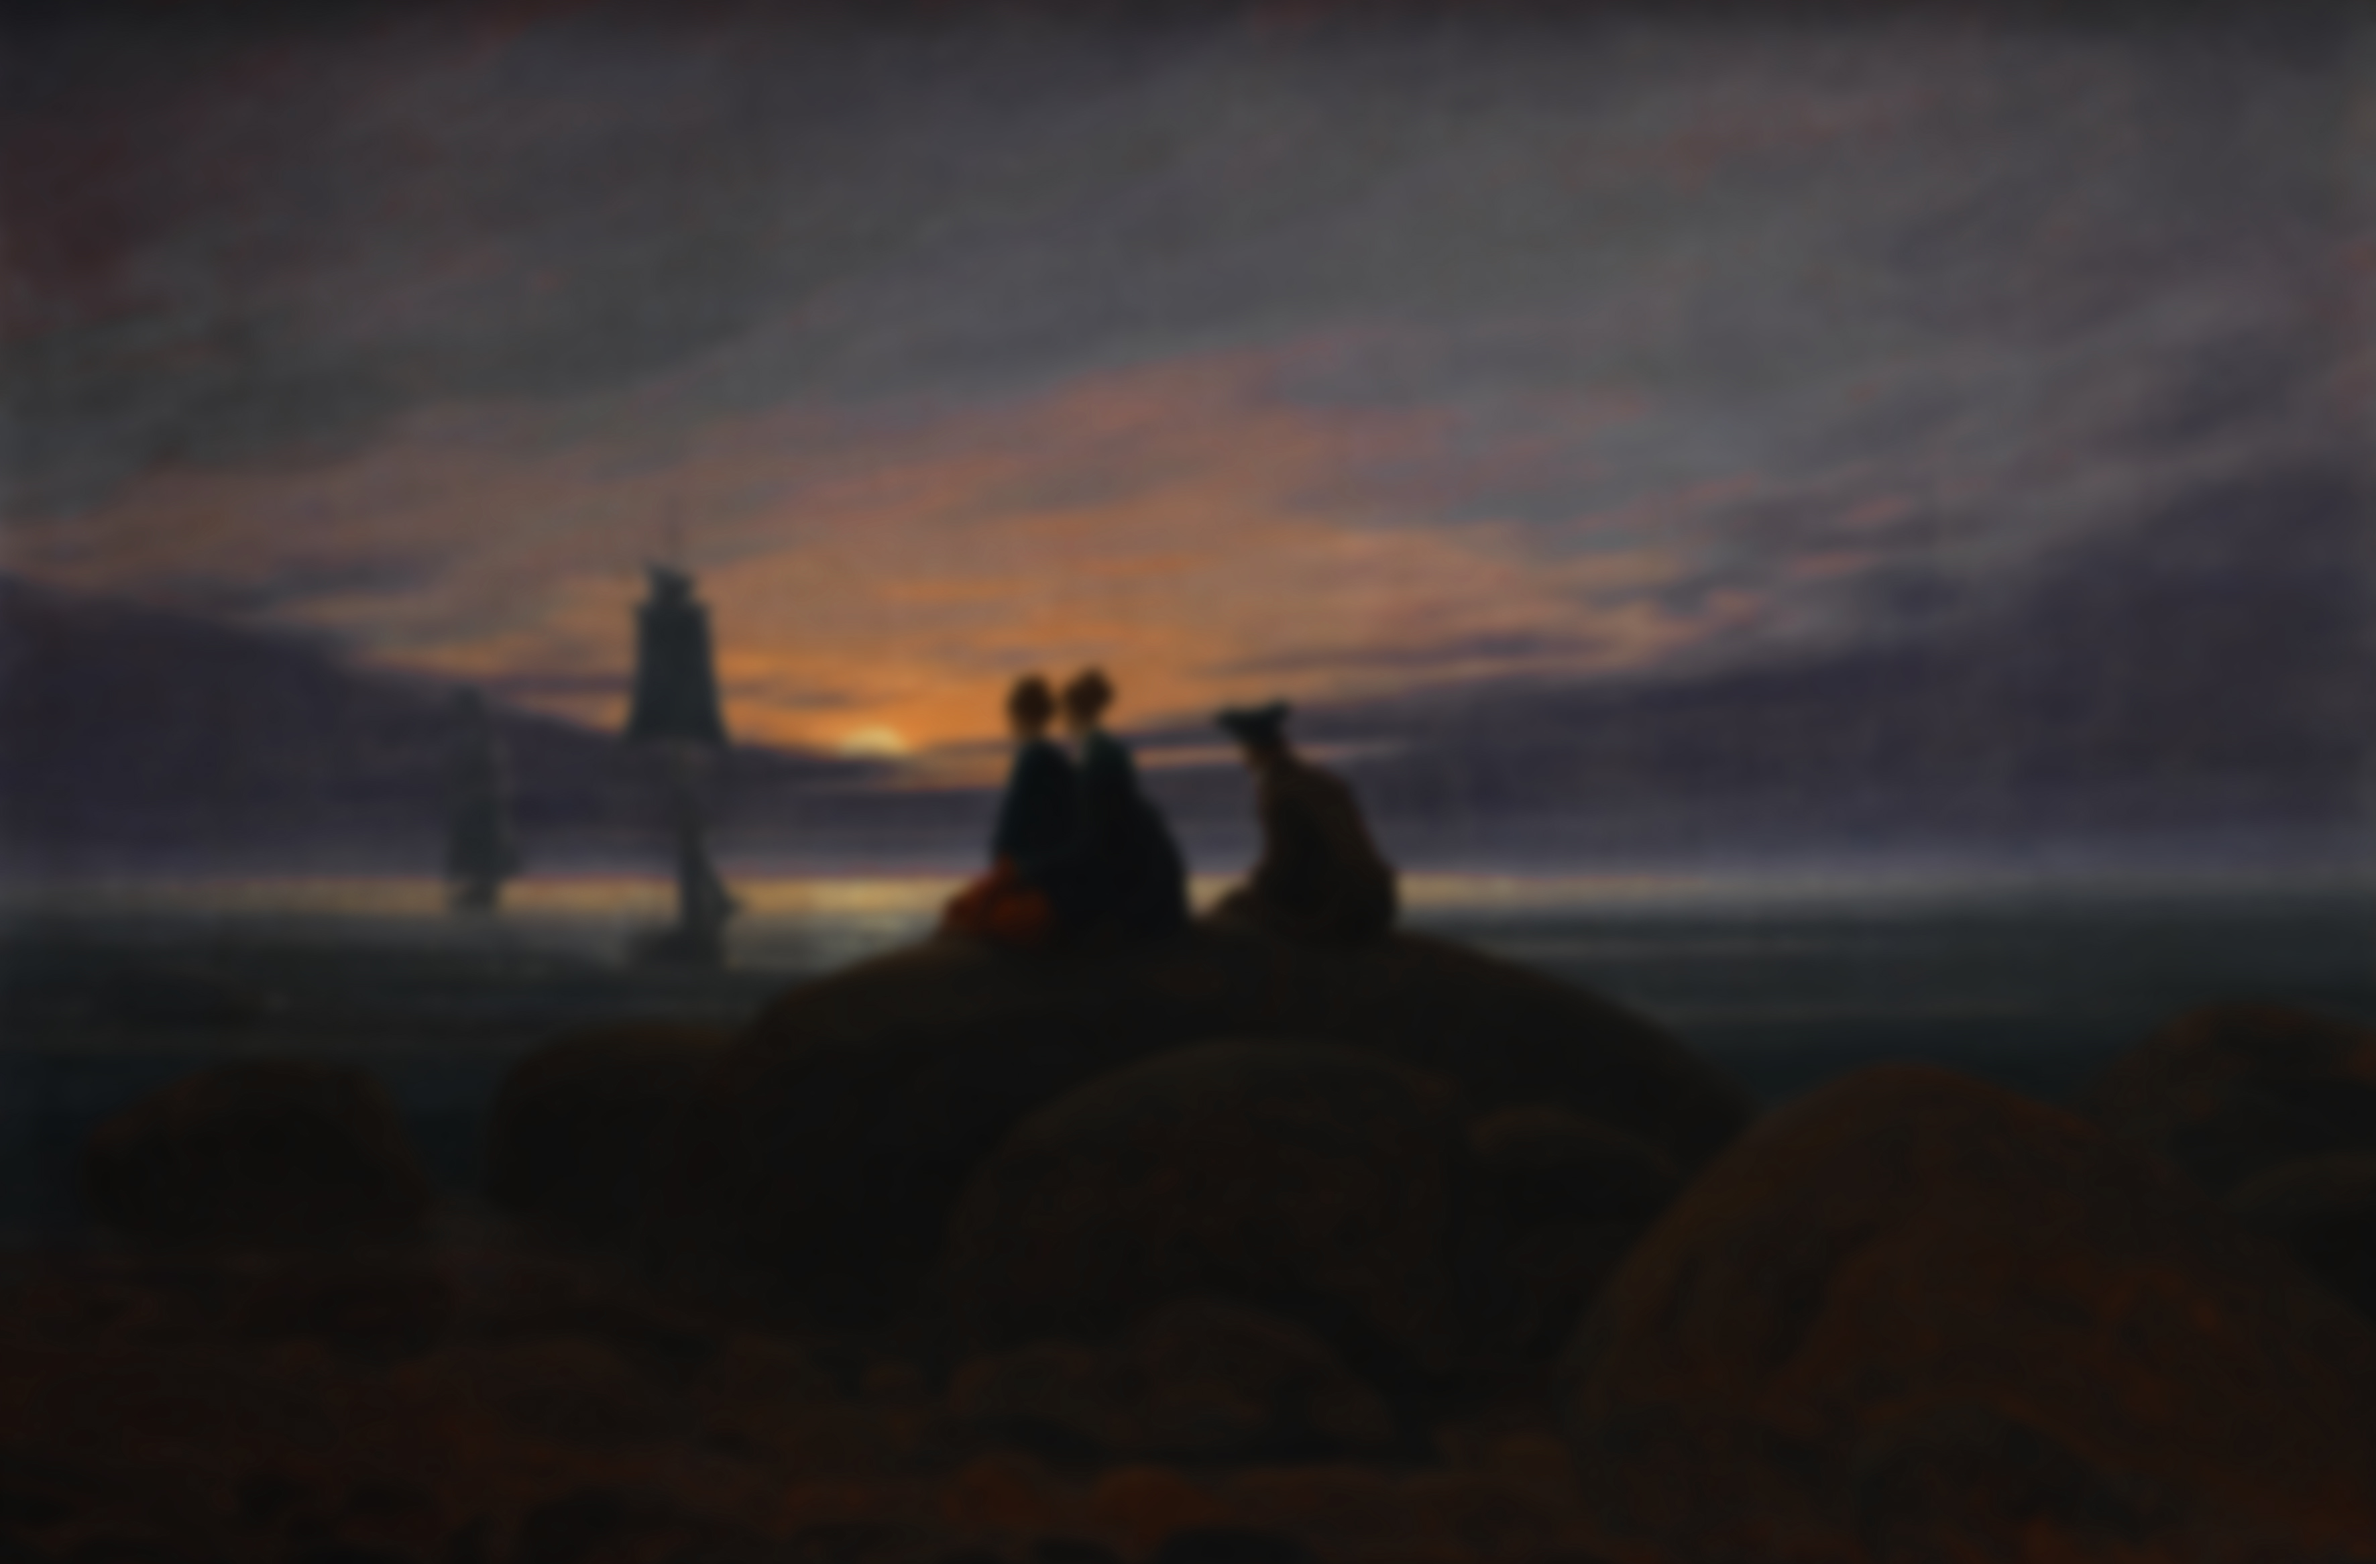
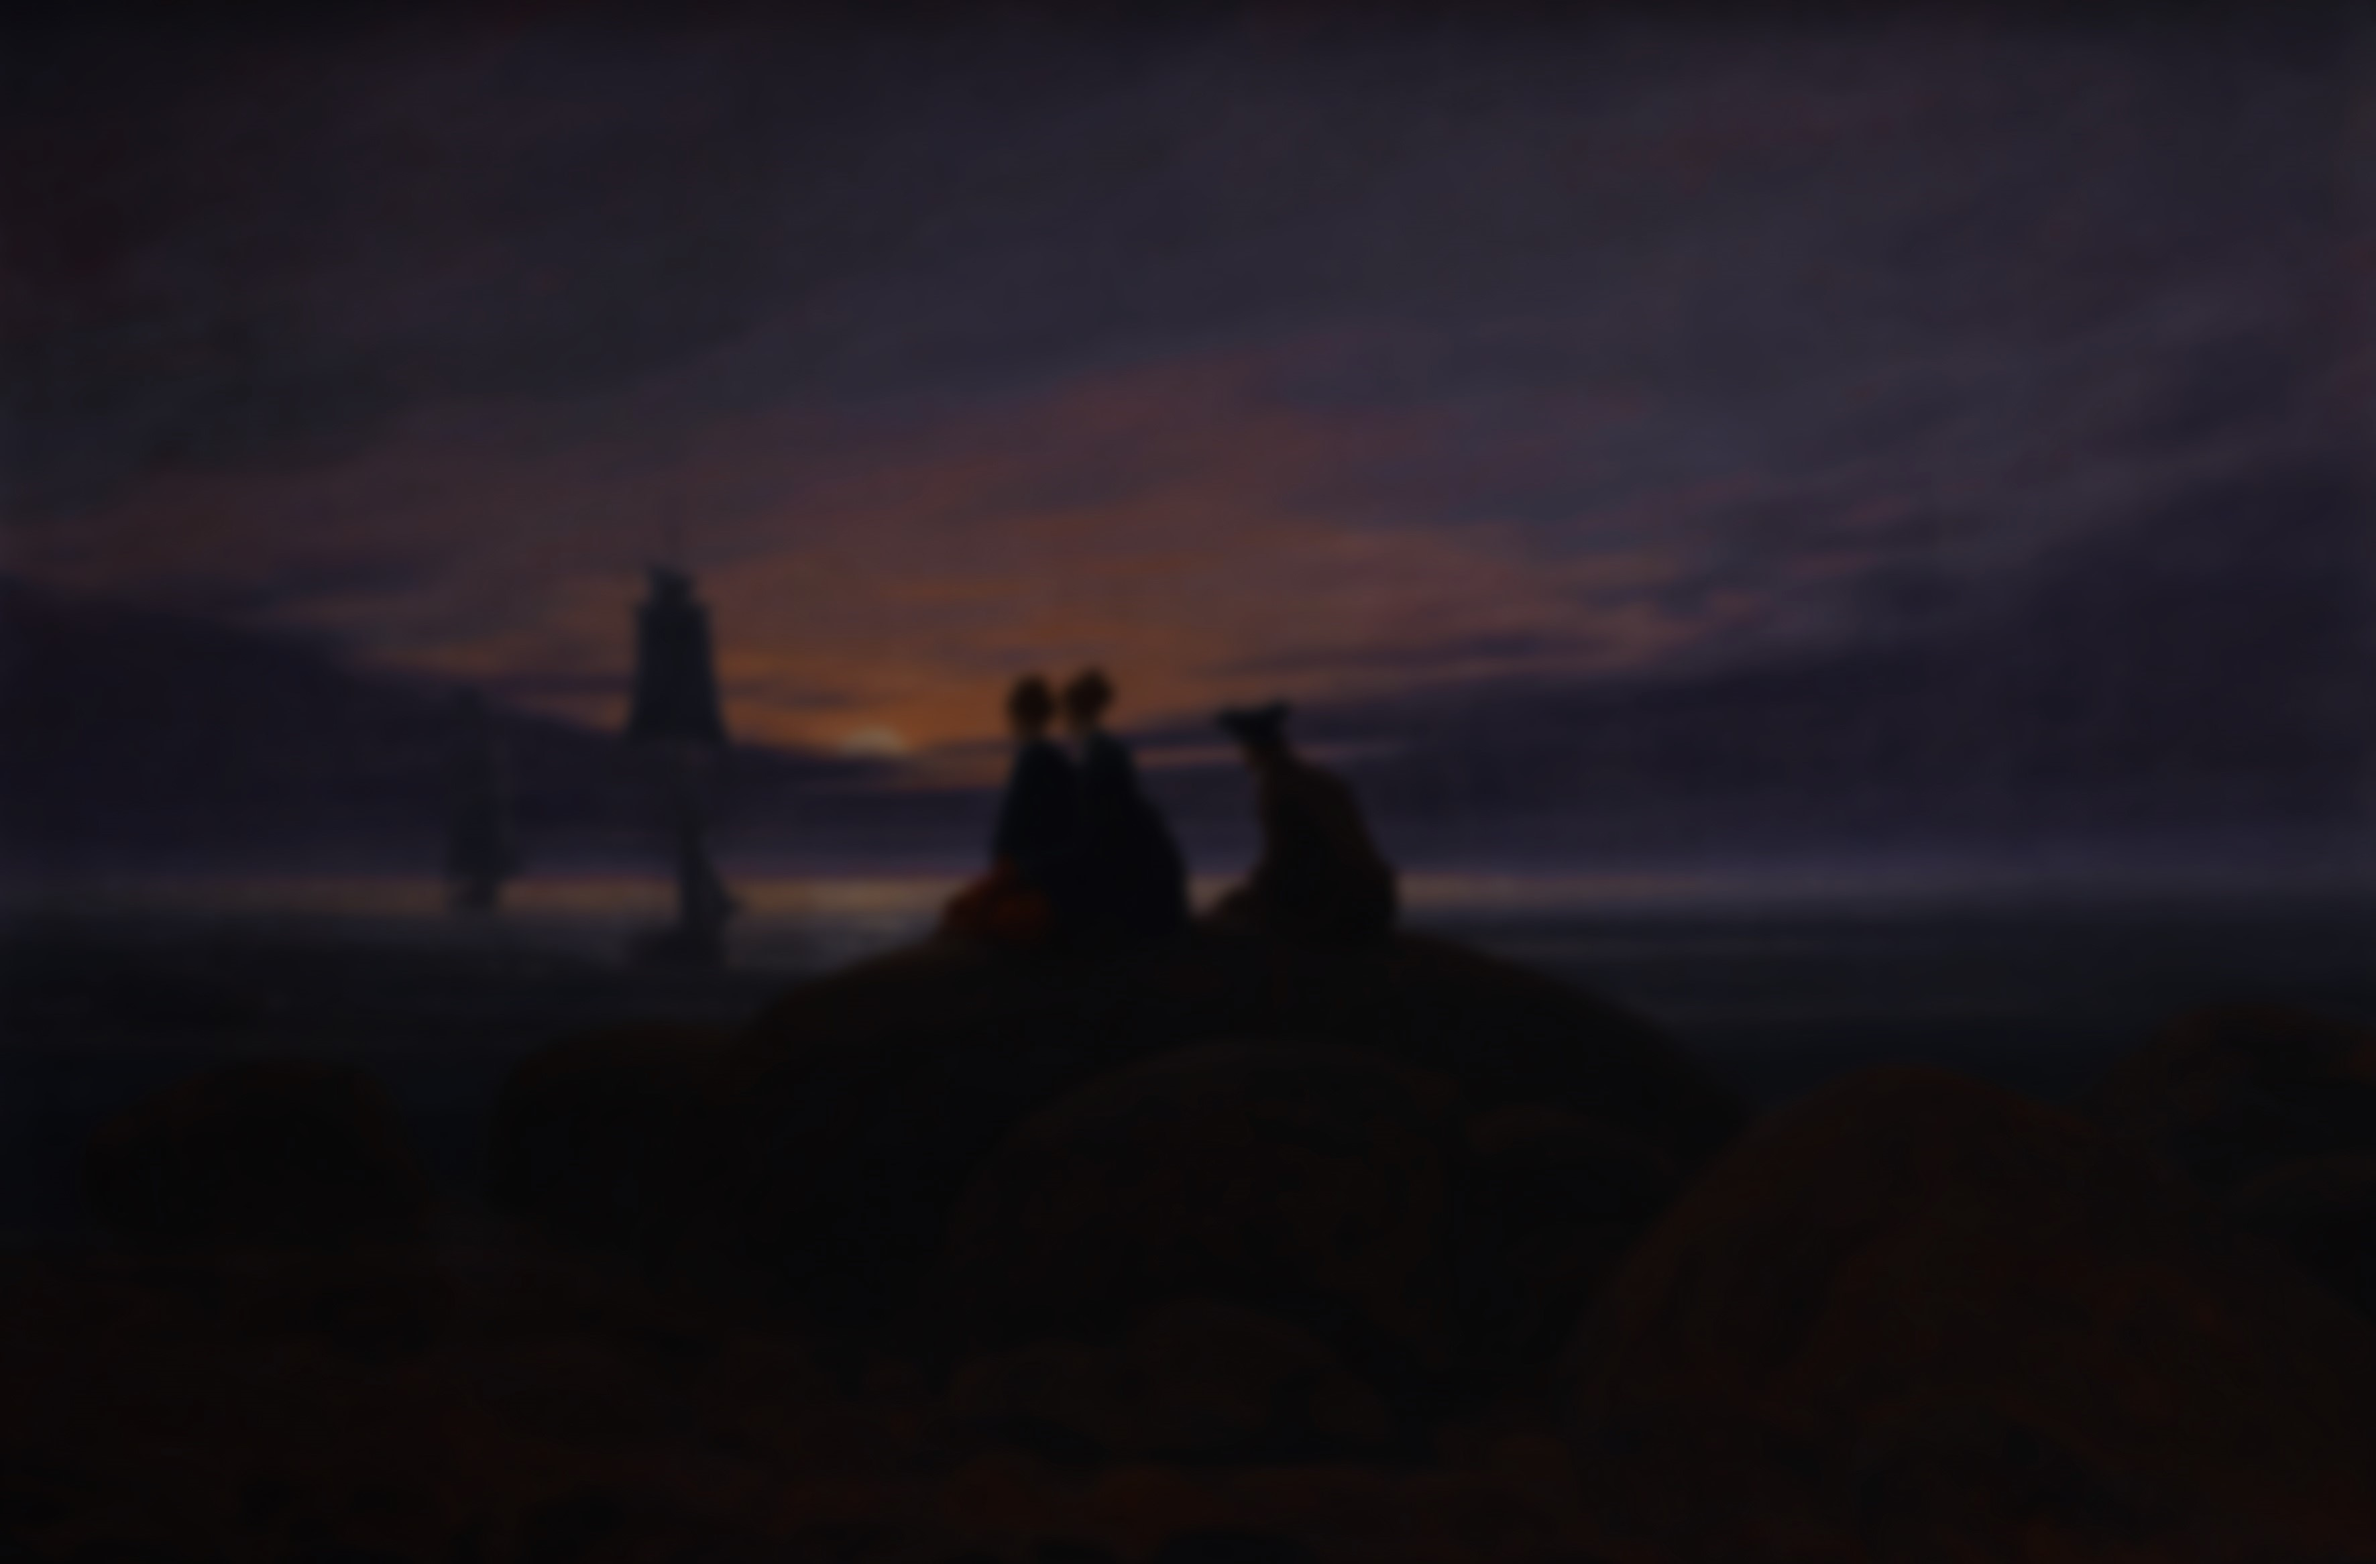
UP 6
Darker background

diff --git a/style-menu.css b/style-menu.css
@@ -3,7 +3,7 @@ body{
     color: white;
     font-family: Durer;
     font-size: 20px;
-    /* background: url(./ressources/lighthouse3.jpg) no-repeat center center fixed; */
+    background: url(./ressources/moonrise.jpg) no-repeat center center fixed;
     -webkit-background-size: cover;
     -moz-background-size: cover;
     -o-background-size: cover;
